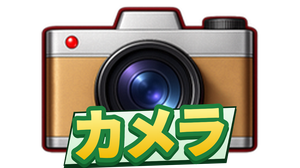
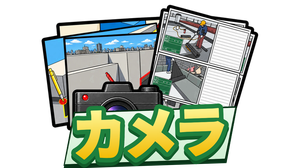
カメラの絵を新しい絵に差し替え（メインアイコン・見出しの横）
Claude-Session: https://claude.ai/code/session_01SSqBungNj4wBMJYD7VEwk6

diff --git a/camera.html b/camera.html
@@ -257,7 +257,7 @@ nav .ni:last-child{margin-right:auto;}
 
 <header>
   <button class="new-btn nn-back nn-backimg" onclick="nnBack()" title="ひとつ前に戻る"><img src="./icons/btn_back.png?v=2026-09-07e" alt="戻る" onerror="var b=this.parentElement;b.classList.remove('nn-backimg');b.textContent='↩';"></button>
-  <span class="hicon"><img src="./icons/icon_camera.png" alt="" style="height:28px;vertical-align:middle" onerror="this.parentElement.textContent=ICONS.header"></span>
+  <span class="hicon"><img src="./icons/icon_camera.png?v=2026-10-26y" alt="" style="height:28px;vertical-align:middle" onerror="this.parentElement.textContent=ICONS.header"></span>
   <h1><span class="nnTtl">カメラ</span></h1>
   <span class="hco"><small>撮る → エッジを引く → 防水材を当てる</small></span>
 </header>
@@ -334,7 +334,7 @@ function buildNav(){
   n.innerHTML=NAV.map(([k,l])=>{
     const suf=(k===NAV_ACTIVE)?'_on':'';
     return `<div class="ni ${k===NAV_ACTIVE?'on':''}" onclick="navGo('${k}','${l}')">
-      <span class="ic"><img src="./icons/nav_${k}${suf}.png?v=2026-10-26x" alt="${l}"
+      <span class="ic"><img src="./icons/nav_${k}${suf}.png?v=2026-10-26y" alt="${l}"
         onload="this.closest('.ni').classList.add('hasimg')"
         onerror="if(!this.dataset.f){this.dataset.f=1;this.src='./icons/nav_${k}.png';}
                  else{this.outerHTML=ICONS['${k}']||'▫';}"></span><span>${l}</span></div>`;
@@ -1296,7 +1296,7 @@ nav, nav#nav{justify-content:center !important; padding-left:6px !important; pad
    古いものが出続けることがある。そこで ver.txt（数バイト）だけを
    毎回見に行き、公開版と違っていたら保存分を捨てて1回だけ読み直す。
    ★公開のたびに ver.txt と、下の NN_VER を同じ文字に更新すること。 */
-const NN_VER='2026-10-26x';
+const NN_VER='2026-10-26y';
 /* ============ 表示にかかった時間の記録（原因調査用・2026-07-28） ============
    スマホの実機でどこに時間がかかっているかを数字で出す。
    ・net  ＝ページを要求してから最初の返事が来るまで（通信の待ち）

diff --git a/index.html b/index.html
@@ -422,7 +422,7 @@ nav, nav#nav{overflow:visible; padding-top:2px;}
 
 <!-- 版の表示：スマホに届いている中身がどれかを、お互いに確認するための小さな印。
      不要になったらこの1行と #nnver の指定を消してください。 -->
-<div id="nnver">v2026-10-26 x</div>
+<div id="nnver">v2026-10-26 y</div>
 <script>
 /* ============ 実機の計測結果を表示（原因調査用・2026-07-28） ============
    数字の意味（単位はミリ秒）
@@ -522,7 +522,7 @@ function buildNav(){
   n.innerHTML=NAV.map(([k,l])=>{
     const suf=(k===NAV_ACTIVE)?'_on':'';
     return `<div class="ni ${k===NAV_ACTIVE?'on':''}" onclick="navGo('${k}','${l}')">
-      <span class="ic"><img src="./icons/nav_${k}${suf}.png?v=2026-10-26x" alt="${l}"
+      <span class="ic"><img src="./icons/nav_${k}${suf}.png?v=2026-10-26y" alt="${l}"
         onload="this.closest('.ni').classList.add('hasimg')"
         onerror="if(!this.dataset.f){this.dataset.f=1;this.src='./icons/nav_${k}.png';}
                  else{this.outerHTML=ICONS['${k}']||'▫';}"></span><span>${l}</span></div>`;
@@ -775,7 +775,7 @@ nav, nav#nav{justify-content:center !important; padding-left:6px !important; pad
    古いものが出続けることがある。そこで ver.txt（数バイト）だけを
    毎回見に行き、公開版と違っていたら保存分を捨てて1回だけ読み直す。
    ★公開のたびに ver.txt と、下の NN_VER を同じ文字に更新すること。 */
-const NN_VER='2026-10-26x';
+const NN_VER='2026-10-26y';
 /* ============ 表示にかかった時間の記録（原因調査用・2026-07-28） ============
    スマホの実機でどこに時間がかかっているかを数字で出す。
    ・net  ＝ページを要求してから最初の返事が来るまで（通信の待ち）

diff --git a/kokkosho.html b/kokkosho.html
@@ -1907,7 +1907,7 @@ function buildNav(){
   n.innerHTML=NAV.map(([k,l])=>{
     const suf=(k===NAV_ACTIVE)?'_on':'';
     return `<div class="ni ${k===NAV_ACTIVE?'on':''}" onclick="navGo('${k}','${l}')">
-      <span class="ic"><img src="./icons/nav_${k}${suf}.png?v=2026-10-26x" alt="${l}"
+      <span class="ic"><img src="./icons/nav_${k}${suf}.png?v=2026-10-26y" alt="${l}"
         onload="this.closest('.ni').classList.add('hasimg')"
         onerror="if(!this.dataset.f){this.dataset.f=1;this.src='./icons/nav_${k}.png';}
                  else{this.outerHTML=NAV_ICONS['${k}']||'▫';}"></span><span>${l}</span></div>`;
@@ -2491,7 +2491,7 @@ nav, nav#nav{justify-content:center !important; padding-left:6px !important; pad
    古いものが出続けることがある。そこで ver.txt（数バイト）だけを
    毎回見に行き、公開版と違っていたら保存分を捨てて1回だけ読み直す。
    ★公開のたびに ver.txt と、下の NN_VER を同じ文字に更新すること。 */
-const NN_VER='2026-10-26x';
+const NN_VER='2026-10-26y';
 /* ============ 表示にかかった時間の記録（原因調査用・2026-07-28） ============
    スマホの実機でどこに時間がかかっているかを数字で出す。
    ・net  ＝ページを要求してから最初の返事が来るまで（通信の待ち）

diff --git a/genba_map_v36.html b/genba_map_v36.html
@@ -4859,7 +4859,7 @@ function buildNav(){
   n.innerHTML=NAV.map(([k,l])=>{
     const suf=(k===NAV_ACTIVE)?'_on':'';
     return `<div class="ni ${k===NAV_ACTIVE?'on':''}" onclick="navGo('${k}','${l}')">
-      <span class="ic"><img src="./icons/nav_${k}${suf}.png?v=2026-10-26x" alt="${l}"
+      <span class="ic"><img src="./icons/nav_${k}${suf}.png?v=2026-10-26y" alt="${l}"
         onload="this.closest('.ni').classList.add('hasimg')"
         onerror="if(!this.dataset.f){this.dataset.f=1;this.src='./icons/nav_${k}.png';}
                  else{this.outerHTML=ICONS['${k}']||'▫';}"></span><span>${l}</span></div>`;
@@ -5048,7 +5048,7 @@ nav, nav#nav{justify-content:center !important; padding-left:6px !important; pad
    古いものが出続けることがある。そこで ver.txt（数バイト）だけを
    毎回見に行き、公開版と違っていたら保存分を捨てて1回だけ読み直す。
    ★公開のたびに ver.txt と、下の NN_VER を同じ文字に更新すること。 */
-const NN_VER='2026-10-26x';
+const NN_VER='2026-10-26y';
 /* ============ 表示にかかった時間の記録（原因調査用・2026-07-28） ============
    スマホの実機でどこに時間がかかっているかを数字で出す。
    ・net  ＝ページを要求してから最初の返事が来るまで（通信の待ち）

diff --git a/kirokucho_demo.html b/kirokucho_demo.html
@@ -3270,7 +3270,7 @@ function buildNav(){
   n.innerHTML=NAV.map(([k,l])=>{
     const suf=(k===NAV_ACTIVE)?'_on':'';
     return `<div class="ni ${k===NAV_ACTIVE?'on':''}" onclick="navGo('${k}','${l}')">
-      <span class="ic"><img src="./icons/nav_${k}${suf}.png?v=2026-10-26x" alt="${l}"
+      <span class="ic"><img src="./icons/nav_${k}${suf}.png?v=2026-10-26y" alt="${l}"
         onload="this.closest('.ni').classList.add('hasimg')"
         onerror="if(!this.dataset.f){this.dataset.f=1;this.src='./icons/nav_${k}.png';}
                  else{this.outerHTML=ICONS['${k}']||'▫';}"></span><span>${l}</span></div>`;
@@ -4928,7 +4928,7 @@ nav, nav#nav{justify-content:center !important; padding-left:6px !important; pad
    古いものが出続けることがある。そこで ver.txt（数バイト）だけを
    毎回見に行き、公開版と違っていたら保存分を捨てて1回だけ読み直す。
    ★公開のたびに ver.txt と、下の NN_VER を同じ文字に更新すること。 */
-const NN_VER='2026-10-26x';
+const NN_VER='2026-10-26y';
 /* ============ 表示にかかった時間の記録（原因調査用・2026-07-28） ============
    スマホの実機でどこに時間がかかっているかを数字で出す。
    ・net  ＝ページを要求してから最初の返事が来るまで（通信の待ち）

diff --git a/shiyo_toroku.html b/shiyo_toroku.html
@@ -1388,7 +1388,7 @@ function buildNav(){
   n.innerHTML=NAV.map(([k,l])=>{
     const suf=(k===NAV_ACTIVE)?'_on':'';
     return `<div class="ni ${k===NAV_ACTIVE?'on':''}" onclick="navGo('${k}','${l}')">
-      <span class="ic"><img src="./icons/nav_${k}${suf}.png?v=2026-10-26x" alt="${l}"
+      <span class="ic"><img src="./icons/nav_${k}${suf}.png?v=2026-10-26y" alt="${l}"
         onload="this.closest('.ni').classList.add('hasimg')"
         onerror="if(!this.dataset.f){this.dataset.f=1;this.src='./icons/nav_${k}.png';}
                  else{this.outerHTML=ICONS['${k}']||'▫';}"></span><span>${l}</span></div>`;
@@ -1821,7 +1821,7 @@ nav, nav#nav{justify-content:center !important; padding-left:6px !important; pad
    古いものが出続けることがある。そこで ver.txt（数バイト）だけを
    毎回見に行き、公開版と違っていたら保存分を捨てて1回だけ読み直す。
    ★公開のたびに ver.txt と、下の NN_VER を同じ文字に更新すること。 */
-const NN_VER='2026-10-26x';
+const NN_VER='2026-10-26y';
 /* ============ 表示にかかった時間の記録（原因調査用・2026-07-28） ============
    スマホの実機でどこに時間がかかっているかを数字で出す。
    ・net  ＝ページを要求してから最初の返事が来るまで（通信の待ち）

diff --git a/zairyo_toroku.html b/zairyo_toroku.html
@@ -1208,7 +1208,7 @@ function buildNav(){
   n.innerHTML=NAV.map(([k,l])=>{
     const suf=(k===NAV_ACTIVE)?'_on':'';
     return `<div class="ni ${k===NAV_ACTIVE?'on':''}" onclick="navGo('${k}','${l}')">
-      <span class="ic"><img src="./icons/nav_${k}${suf}.png?v=2026-10-26x" alt="${l}"
+      <span class="ic"><img src="./icons/nav_${k}${suf}.png?v=2026-10-26y" alt="${l}"
         onload="this.closest('.ni').classList.add('hasimg')"
         onerror="if(!this.dataset.f){this.dataset.f=1;this.src='./icons/nav_${k}.png';}
                  else{this.outerHTML=ICONS['${k}']||'▫';}"></span><span>${l}</span></div>`;
@@ -1613,7 +1613,7 @@ nav, nav#nav{justify-content:center !important; padding-left:6px !important; pad
    古いものが出続けることがある。そこで ver.txt（数バイト）だけを
    毎回見に行き、公開版と違っていたら保存分を捨てて1回だけ読み直す。
    ★公開のたびに ver.txt と、下の NN_VER を同じ文字に更新すること。 */
-const NN_VER='2026-10-26x';
+const NN_VER='2026-10-26y';
 /* ============ 表示にかかった時間の記録（原因調査用・2026-07-28） ============
    スマホの実機でどこに時間がかかっているかを数字で出す。
    ・net  ＝ページを要求してから最初の返事が来るまで（通信の待ち）

diff --git a/zumen_sekisan.html b/zumen_sekisan.html
@@ -5883,7 +5883,7 @@ function buildNav(){
   n.innerHTML=NAV.map(([k,l])=>{
     const suf=(k===NAV_ACTIVE)?'_on':'';
     return `<div class="ni ${k===NAV_ACTIVE?'on':''}" onclick="navGo('${k}','${l}')">
-      <span class="ic"><img src="./icons/nav_${k}${suf}.png?v=2026-10-26x" alt="${l}"
+      <span class="ic"><img src="./icons/nav_${k}${suf}.png?v=2026-10-26y" alt="${l}"
         onload="this.closest('.ni').classList.add('hasimg')"
         onerror="if(!this.dataset.f){this.dataset.f=1;this.src='./icons/nav_${k}.png';}
                  else{this.outerHTML=ICONS['${k}']||'▫';}"></span><span>${l}</span></div>`;
@@ -6342,7 +6342,7 @@ nav, nav#nav{justify-content:center !important; padding-left:6px !important; pad
    古いものが出続けることがある。そこで ver.txt（数バイト）だけを
    毎回見に行き、公開版と違っていたら保存分を捨てて1回だけ読み直す。
    ★公開のたびに ver.txt と、下の NN_VER を同じ文字に更新すること。 */
-const NN_VER='2026-10-26x';
+const NN_VER='2026-10-26y';
 /* ============ 表示にかかった時間の記録（原因調査用・2026-07-28） ============
    スマホの実機でどこに時間がかかっているかを数字で出す。
    ・net  ＝ページを要求してから最初の返事が来るまで（通信の待ち）

diff --git a/hacchu.html b/hacchu.html
@@ -378,7 +378,7 @@ function buildNav(){
   n.innerHTML=NAV.map(([k,l])=>{
     const suf=(k===NAV_ACTIVE)?'_on':'';
     return `<div class="ni ${k===NAV_ACTIVE?'on':''}" onclick="navGo('${k}','${l}')">
-      <span class="ic"><img src="./icons/nav_${k}${suf}.png?v=2026-10-26x" alt="${l}"
+      <span class="ic"><img src="./icons/nav_${k}${suf}.png?v=2026-10-26y" alt="${l}"
         onload="this.closest('.ni').classList.add('hasimg')"
         onerror="if(!this.dataset.f){this.dataset.f=1;this.src='./icons/nav_${k}.png';}
                  else{this.outerHTML=ICONS['${k}']||'▫';}"></span><span>${l}</span></div>`;
@@ -1126,7 +1126,7 @@ nav, nav#nav{justify-content:center !important; padding-left:6px !important; pad
    古いものが出続けることがある。そこで ver.txt（数バイト）だけを
    毎回見に行き、公開版と違っていたら保存分を捨てて1回だけ読み直す。
    ★公開のたびに ver.txt と、下の NN_VER を同じ文字に更新すること。 */
-const NN_VER='2026-10-26x';
+const NN_VER='2026-10-26y';
 /* ============ 表示にかかった時間の記録（原因調査用・2026-07-28） ============
    スマホの実機でどこに時間がかかっているかを数字で出す。
    ・net  ＝ページを要求してから最初の返事が来るまで（通信の待ち）

diff --git a/library.html b/library.html
@@ -417,7 +417,7 @@ function buildNav(){
   n.innerHTML=NAV.map(([k,l])=>{
     const suf=(k===NAV_ACTIVE)?'_on':'';
     return `<div class="ni ${k===NAV_ACTIVE?'on':''}" onclick="navGo('${k}','${l}')">
-      <span class="ic"><img src="./icons/nav_${k}${suf}.png?v=2026-10-26x" alt="${l}"
+      <span class="ic"><img src="./icons/nav_${k}${suf}.png?v=2026-10-26y" alt="${l}"
         onload="this.closest('.ni').classList.add('hasimg')"
         onerror="if(!this.dataset.f){this.dataset.f=1;this.src='./icons/nav_${k}.png';}
                  else{this.outerHTML=ICONS['${k}']||'▫';}"></span><span>${l}</span></div>`;
@@ -1193,7 +1193,7 @@ nav, nav#nav{justify-content:center !important; padding-left:6px !important; pad
    古いものが出続けることがある。そこで ver.txt（数バイト）だけを
    毎回見に行き、公開版と違っていたら保存分を捨てて1回だけ読み直す。
    ★公開のたびに ver.txt と、下の NN_VER を同じ文字に更新すること。 */
-const NN_VER='2026-10-26x';
+const NN_VER='2026-10-26y';
 /* ============ 表示にかかった時間の記録（原因調査用・2026-07-28） ============
    スマホの実機でどこに時間がかかっているかを数字で出す。
    ・net  ＝ページを要求してから最初の返事が来るまで（通信の待ち）

diff --git a/yougo.html b/yougo.html
@@ -317,7 +317,7 @@ function buildNav(){
   n.innerHTML=NAV.map(([k,l])=>{
     const suf=(k===NAV_ACTIVE)?'_on':'';
     return `<div class="ni ${k===NAV_ACTIVE?'on':''}" onclick="navGo('${k}','${l}')">
-      <span class="ic"><img src="./icons/nav_${k}${suf}.png?v=2026-10-26x" alt="${l}"
+      <span class="ic"><img src="./icons/nav_${k}${suf}.png?v=2026-10-26y" alt="${l}"
         onload="this.closest('.ni').classList.add('hasimg')"
         onerror="if(!this.dataset.f){this.dataset.f=1;this.src='./icons/nav_${k}.png';}
                  else{this.outerHTML=ICONS['${k}']||'▫';}"></span><span>${l}</span></div>`;
@@ -1429,7 +1429,7 @@ nav, nav#nav{justify-content:center !important; padding-left:6px !important; pad
    古いものが出続けることがある。そこで ver.txt（数バイト）だけを
    毎回見に行き、公開版と違っていたら保存分を捨てて1回だけ読み直す。
    ★公開のたびに ver.txt と、下の NN_VER を同じ文字に更新すること。 */
-const NN_VER='2026-10-26x';
+const NN_VER='2026-10-26y';
 /* ============ 表示にかかった時間の記録（原因調査用・2026-07-28） ============
    スマホの実機でどこに時間がかかっているかを数字で出す。
    ・net  ＝ページを要求してから最初の返事が来るまで（通信の待ち）

diff --git a/sw.js b/sw.js
@@ -11,7 +11,7 @@
      ので、こちらの修正が確実に端末へ届く。
      ★ページを直したら、必ずこの番号を1つ上げること。
    ============================================================ */
-const CACHE = 'nn-cache-v896';
+const CACHE = 'nn-cache-v897';
 
 const ASSETS = [
   './repair_takeoff.js',
